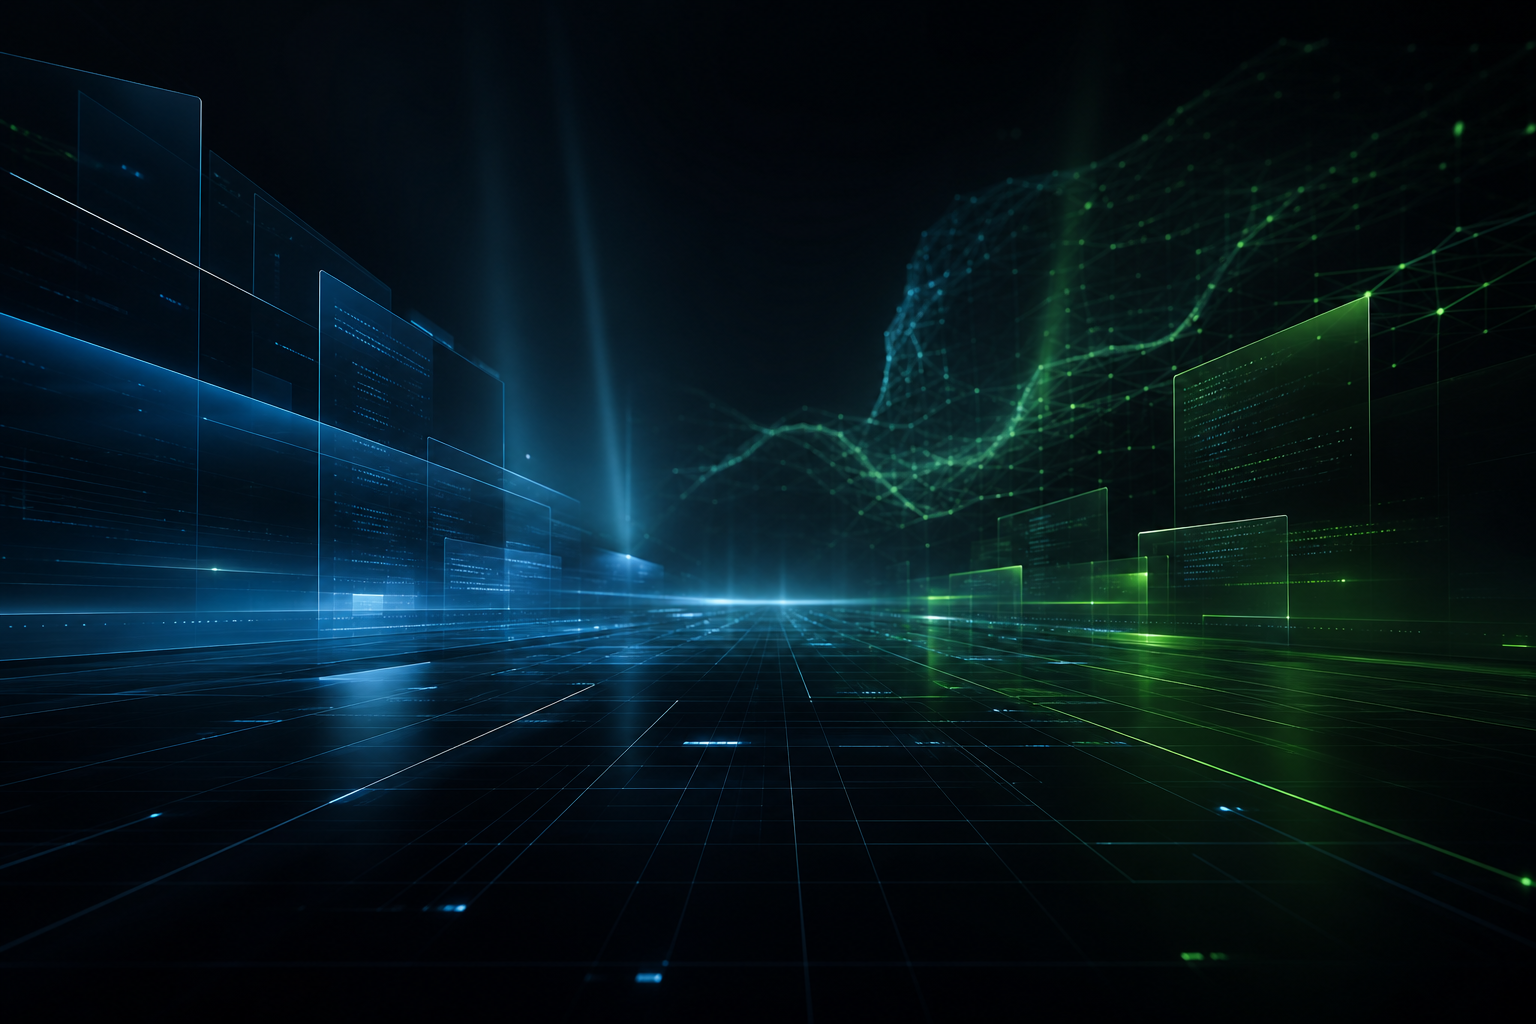
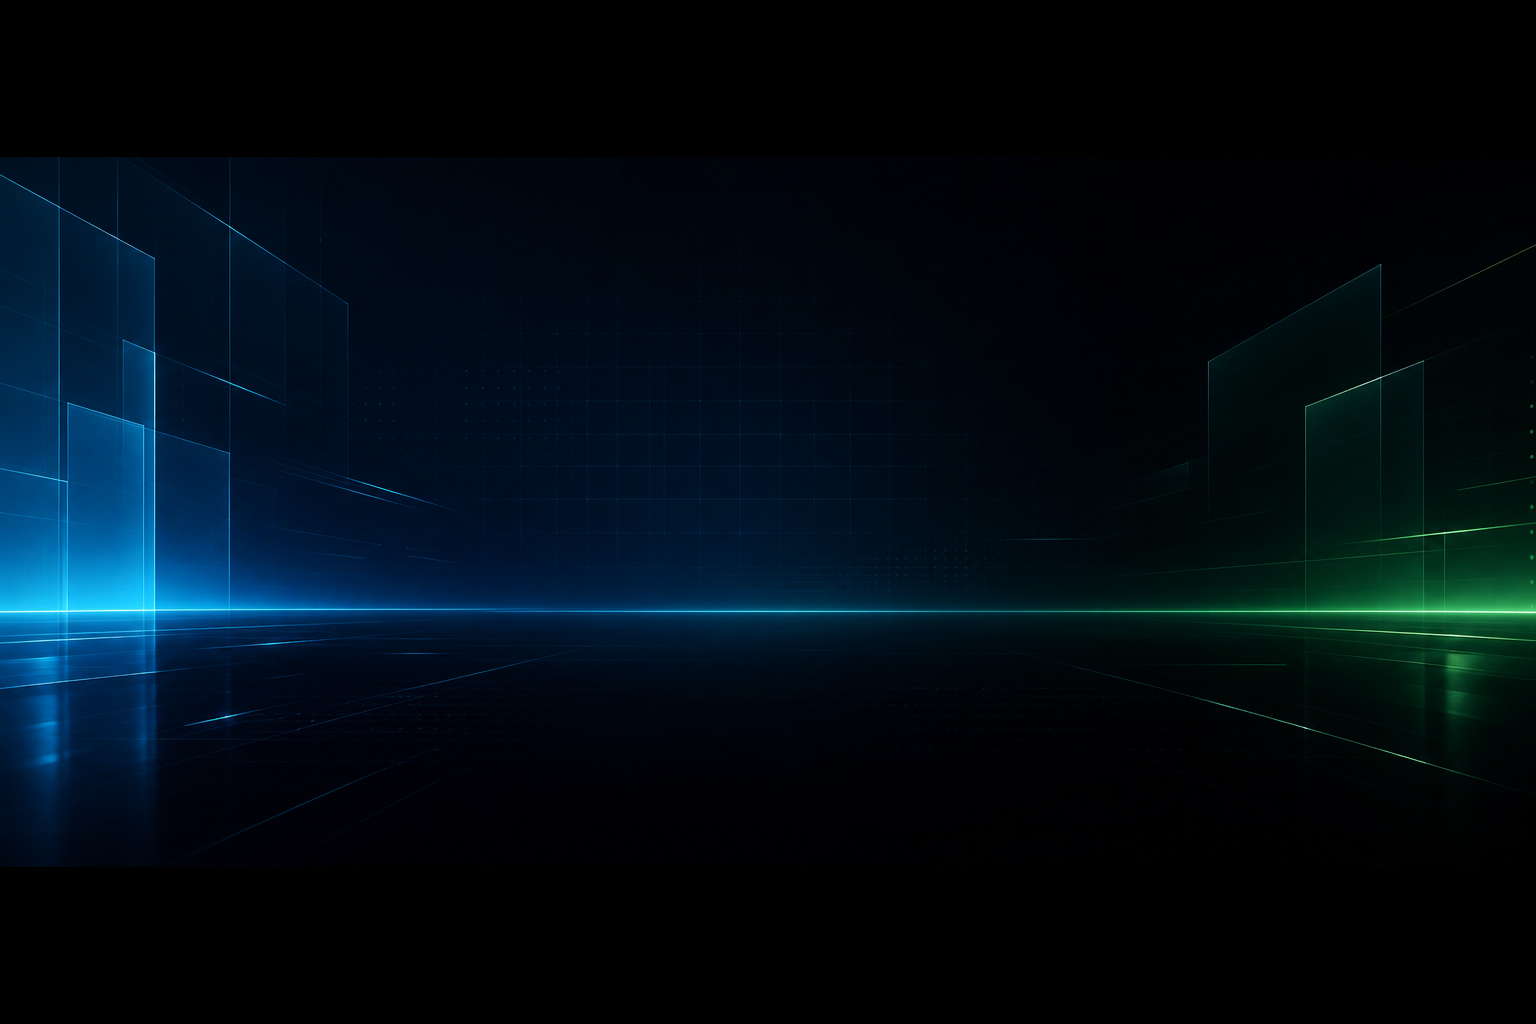
README: hero rectangular bajo titulo y navegacion

diff --git a/README.md b/README.md
@@ -1,18 +1,14 @@
-<p align="center">
-  <img src="./assets/readme-hero.png" width="100%" alt="OpenCode NVIDIA Build Hub — identidad visual" />
-</p>
-
 <h1 align="center">OpenCode · NVIDIA Build Hub</h1>
 
 <p align="center">
-  <strong>Plantilla de workspace</strong> para desarrollo asistido con <a href="https://opencode.ai">OpenCode</a> sobre <a href="https://build.nvidia.com">NVIDIA Build</a> (API OpenAI-compatible), con rutas claras para múltiples productos en <code>projects/</code>.
+  Plantilla de workspace para desarrollo asistido con <a href="https://opencode.ai">OpenCode</a> sobre <a href="https://build.nvidia.com">NVIDIA Build</a> (API OpenAI-compatible), con rutas claras para múltiples productos en <code>projects/</code>.
 </p>
 
 <p align="center">
   <a href="./LICENSE"><img src="https://img.shields.io/badge/License-MIT-0A0A0A?style=for-the-badge&labelColor=1a1a2e" alt="MIT" /></a>
   <a href="https://opencode.ai/docs"><img src="https://img.shields.io/badge/OpenCode-docs-6366F1?style=for-the-badge&labelColor=1a1a2e" alt="OpenCode docs" /></a>
   <a href="https://build.nvidia.com/explore/discover"><img src="https://img.shields.io/badge/NVIDIA-Build-76B900?style=for-the-badge&logo=nvidia&logoColor=white&labelColor=1a1a2e" alt="NVIDIA Build" /></a>
-  <a href="https://www.typescriptlang.org/"><img src="https://img.shields.io/badge/Stack-Next.js_16-000?style=for-the-badge&logo=nextdotjs&logoColor=white&labelColor=1a1a2e" alt="Stack recomendado" /></a>
+  <a href="https://nextjs.org/"><img src="https://img.shields.io/badge/Stack_recomendado-Next.js_16-000?style=for-the-badge&logo=nextdotjs&logoColor=white&labelColor=1a1a2e" alt="Stack recomendado" /></a>
 </p>
 
 <p align="center">
@@ -21,7 +17,13 @@
   <a href="#capacidades">Capacidades</a> ·
   <a href="#inicio-en-3-pasos">Inicio</a> ·
   <a href="#configuración">Configuración</a> ·
-  <a href="#operación-y-seguridad">Operación</a>
+  <a href="#operación">Operación</a>
+</p>
+
+<br />
+
+<p align="center">
+  <img src="./assets/readme-hero.png" width="96%" alt="OpenCode · NVIDIA Build Hub — banderola" />
 </p>
 
 ---
@@ -168,7 +170,7 @@ El archivo **`.env` no se versiona** (`.gitignore`). Usa solo **`.env.example`**
 
 ---
 
-## Operación y seguridad
+## Operación
 
 | Tema | Recomendación |
 |------|----------------|
